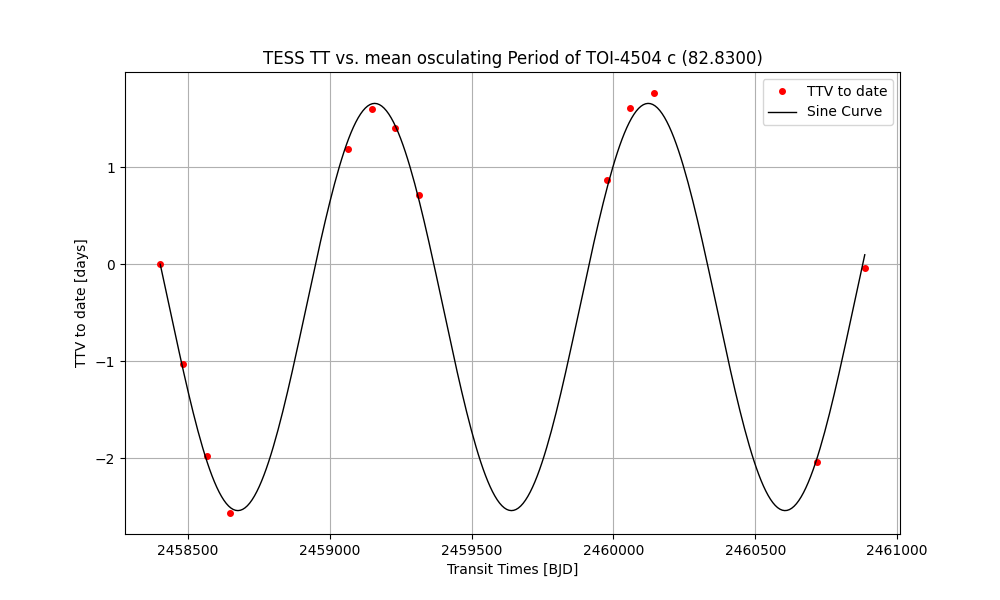
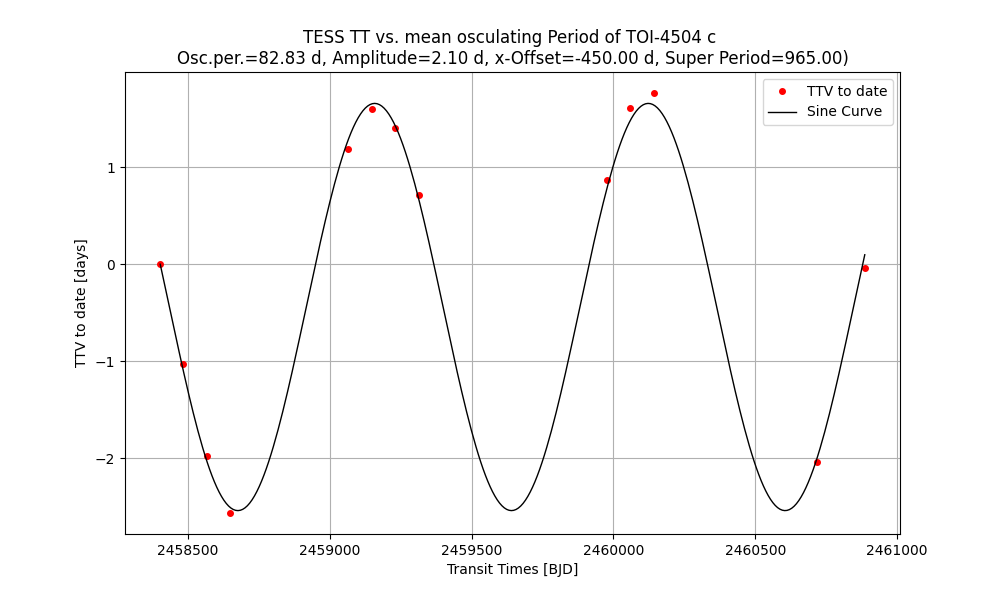
0.5.6 Fitting TOI-4504

Changed region(s): [[0.186, 0.03, 0.868, 0.12]]

diff --git a/src/curvesimulator/cs_results.py b/src/curvesimulator/cs_results.py
@@ -319,7 +319,7 @@ class CurveSimResults(dict):
         sine_curve -= sine_curve[0]
 
         CurveSimResults.plot_this(
-            title=f"TESS TT vs. mean osculating Period of TOI-4504 c ({osc_per:.4f})",
+            title=f"TESS TT vs. mean osculating Period of TOI-4504 c \nOsc.per.={osc_per:.2f} d, Amplitude={amplitude:.2f} d, x-Offset={x_offset:.2f} d, Super Period={period:.2f})",
             x_label="Transit Times [BJD]",
             y_label="TTV to date [days]",
             x_lists=    [tt_tess,       x4sine],
